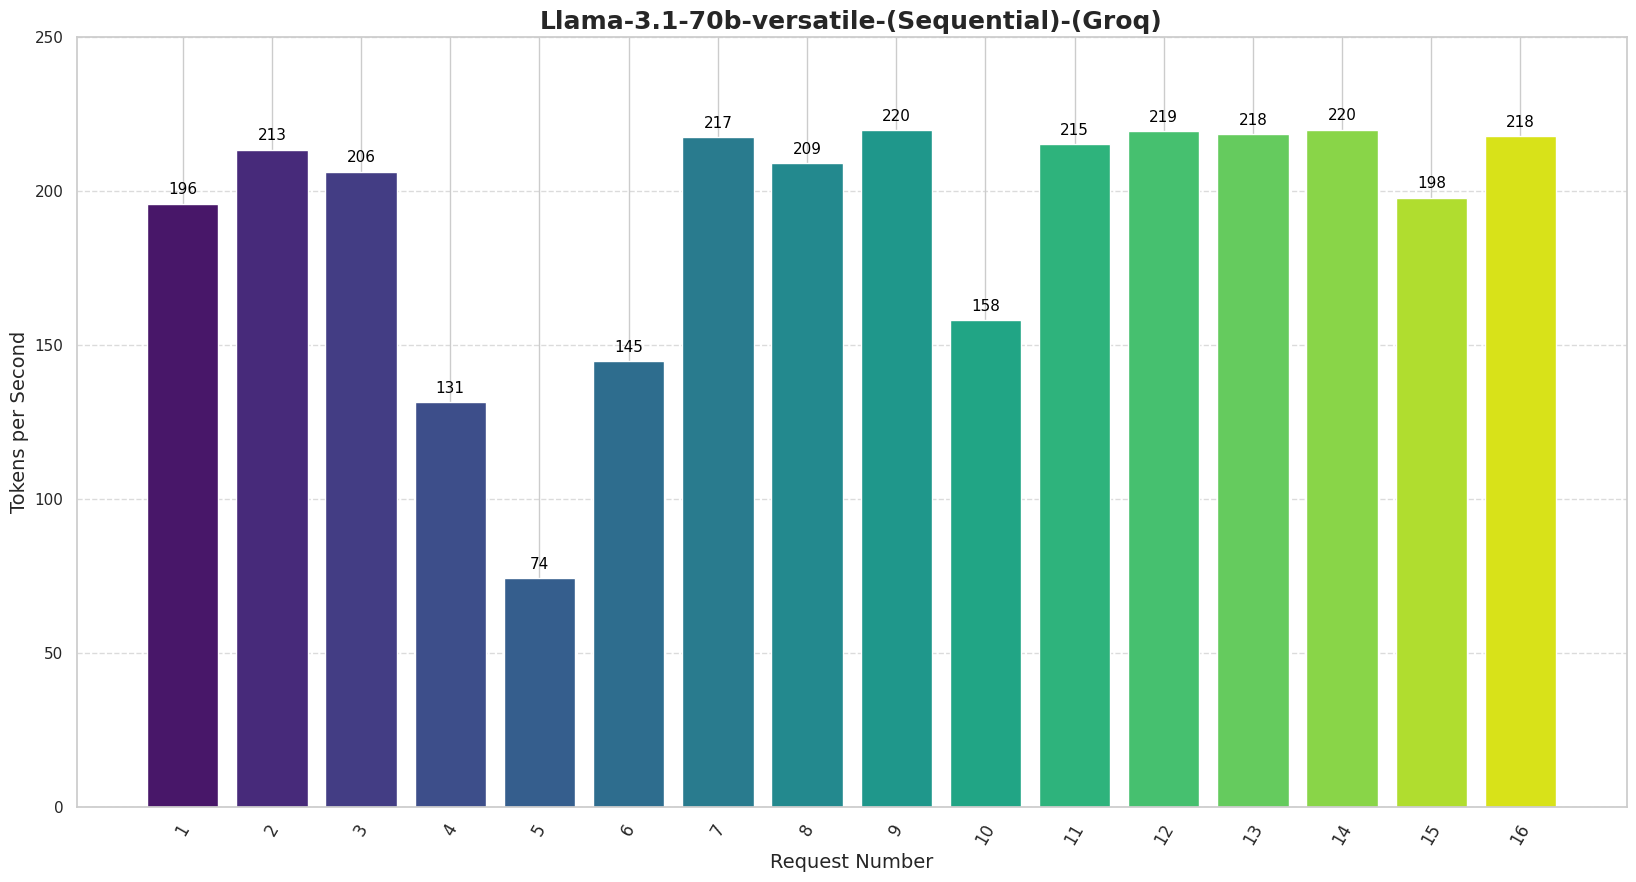
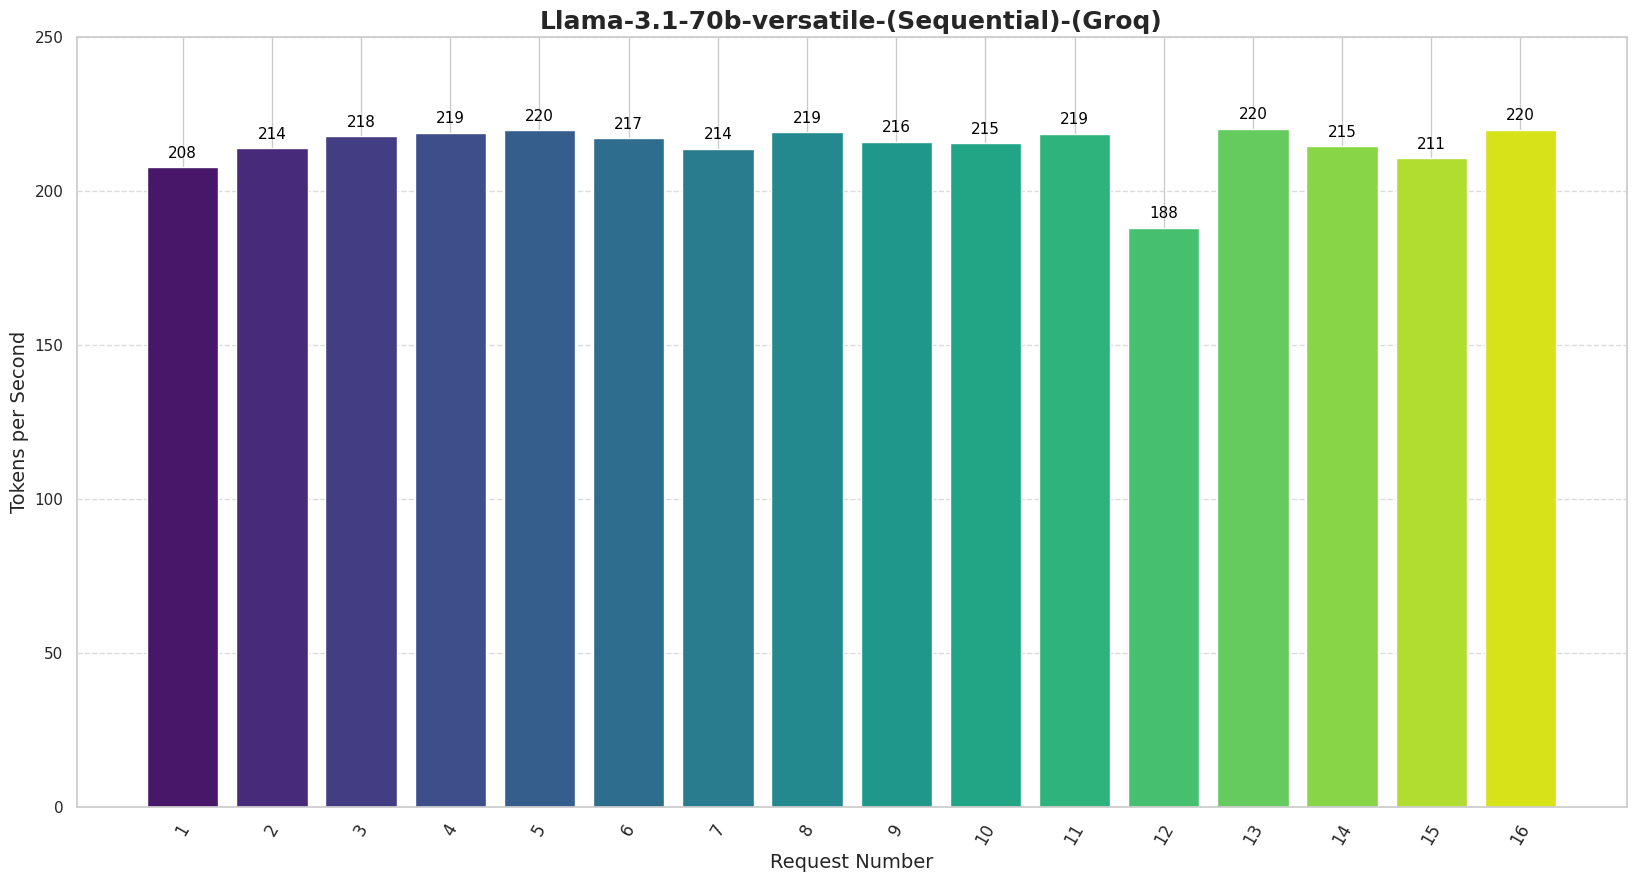
Add save Queue Time into csv for Groq

diff --git a/scripts/groq-sequential.py b/scripts/groq-sequential.py
@@ -18,7 +18,7 @@ write_lock = threading.Lock()
 # Open the CSV file and write the header
 with open('results.csv', 'w', newline='') as file:
     writer = csv.writer(file)
-    writer.writerow(["Request Number", "Total Time Taken", "Prompt Tokens", "Tokens Generated", "Tokens per Second"])
+    writer.writerow(["Request Number", "Total Time Taken", "Queue Time", "Prompt Tokens", "Tokens Generated", "Tokens per Second"])
 
 def chat_completion_request_groq(messages, client, request_number):
     start_time = time.time()
@@ -50,7 +50,7 @@ def chat_completion_request_groq(messages, client, request_number):
         print("")
         print(f"---------- Request #{request_number} ----------")
         print(f"Total Time Taken: {response_time:.2f} seconds")
-        print(f"Queue ttime: {queue_time:.2f}")
+        print(f"Queue time: {queue_time:.2f} seconds")
         print(f"Prompt tokens: {prompt_tokens:.2f}")
         print(f"Tokens generated: {tokens_generated:.2f}")
         print(f"Tokens per second: {tokens_per_second:.2f}")
@@ -58,7 +58,7 @@ def chat_completion_request_groq(messages, client, request_number):
         # Write the results to the CSV file
         with open('results.csv', 'a', newline='') as file:
             writer = csv.writer(file)
-            writer.writerow([request_number, f"{response_time:.2f}", f"{prompt_tokens:.2f}", f"{tokens_generated:.2f}", f"{tokens_per_second:.2f}"])
+            writer.writerow([request_number, f"{response_time:.2f}", f"{queue_time:.2f}", f"{prompt_tokens:.2f}", f"{tokens_generated:.2f}", f"{tokens_per_second:.2f}"])
 
     return chat_response
 
@@ -68,7 +68,7 @@ def send_request_sequentially(num_requests):
             {"role": "user", "content": "Write a long essay on the topic of spring."}
         ]
         chat_completion_request_groq(messages, client, request_number)
-        time.sleep(2)  # Wait for 5 seconds before sending the next request
+        time.sleep(2)  # Wait for 2 seconds before sending the next request
 
 if __name__ == "__main__":
     num_requests = 16  # Specify the number of requests here

diff --git a/scripts/groq-concurent.py b/scripts/groq-concurent.py
@@ -18,7 +18,7 @@ write_lock = threading.Lock()
 # Open the CSV file and write the header
 with open('results.csv', 'w', newline='') as file:
     writer = csv.writer(file)
-    writer.writerow(["Request Number", "Total Time Taken", "Prompt Tokens", "Tokens Generated", "Tokens per Second"])
+    writer.writerow(["Request Number", "Total Time Taken", "Queue Time", "Prompt Tokens", "Tokens Generated", "Tokens per Second"])
 
 def chat_completion_request_groq(messages, client, request_number):
     start_time = time.time()
@@ -50,7 +50,7 @@ def chat_completion_request_groq(messages, client, request_number):
         print("")
         print(f"---------- Request #{request_number} ----------")
         print(f"Total Time Taken: {response_time:.2f} seconds")
-        print(f"Queue ttime: {queue_time:.2f}")
+        print(f"Queue time: {queue_time:.2f} seconds")
         print(f"Prompt tokens: {prompt_tokens:.2f}")
         print(f"Tokens generated: {tokens_generated:.2f}")
         print(f"Tokens per second: {tokens_per_second:.2f}")
@@ -58,7 +58,7 @@ def chat_completion_request_groq(messages, client, request_number):
         # Write the results to the CSV file
         with open('results.csv', 'a', newline='') as file:
             writer = csv.writer(file)
-            writer.writerow([request_number, f"{response_time:.2f}", f"{prompt_tokens:.2f}", f"{tokens_generated:.2f}", f"{tokens_per_second:.2f}"])
+            writer.writerow([request_number, f"{response_time:.2f}", f"{queue_time:.2f}", f"{prompt_tokens:.2f}", f"{tokens_generated:.2f}", f"{tokens_per_second:.2f}"])
 
     return chat_response
 
@@ -76,4 +76,3 @@ def send_request(request_number):
 if __name__ == "__main__":
     num_requests = 64  # Specify the number of requests here
     send_request_every_x_seconds(num_requests)
-    

diff --git a/scripts/graph-plot.py b/scripts/graph-plot.py
@@ -60,7 +60,7 @@ def plot_tokens_per_second(csv_path: str, title: str, ylimit: int = None):
 if __name__ == "__main__":
     # Example usage
     y_axis_limit = 50
-    plot_tokens_per_second("results.csv", "Llama-3-70B-Instruct-FP8-(Sequential)-(H100-PCie-2-GPUs)")
+    # plot_tokens_per_second("results.csv", "Llama-3-70B-Instruct-FP8-(Sequential)-(H100-PCie-2-GPUs)")
     # plot_tokens_per_second("results.csv", "Llama-3-70B-Instruct-FP8-(Concurent)-(H100-PCie-2-GPUs)")
     # plot_tokens_per_second("results.csv", "Llama-3.1-70b-versatile-(Concurent)-(Groq)", 250)
-    # plot_tokens_per_second("results.csv", "Llama-3.1-70b-versatile-(Sequential)-(Groq)", 250)
+    plot_tokens_per_second("results.csv", "Llama-3.1-70b-versatile-(Sequential)-(Groq)", 250)
